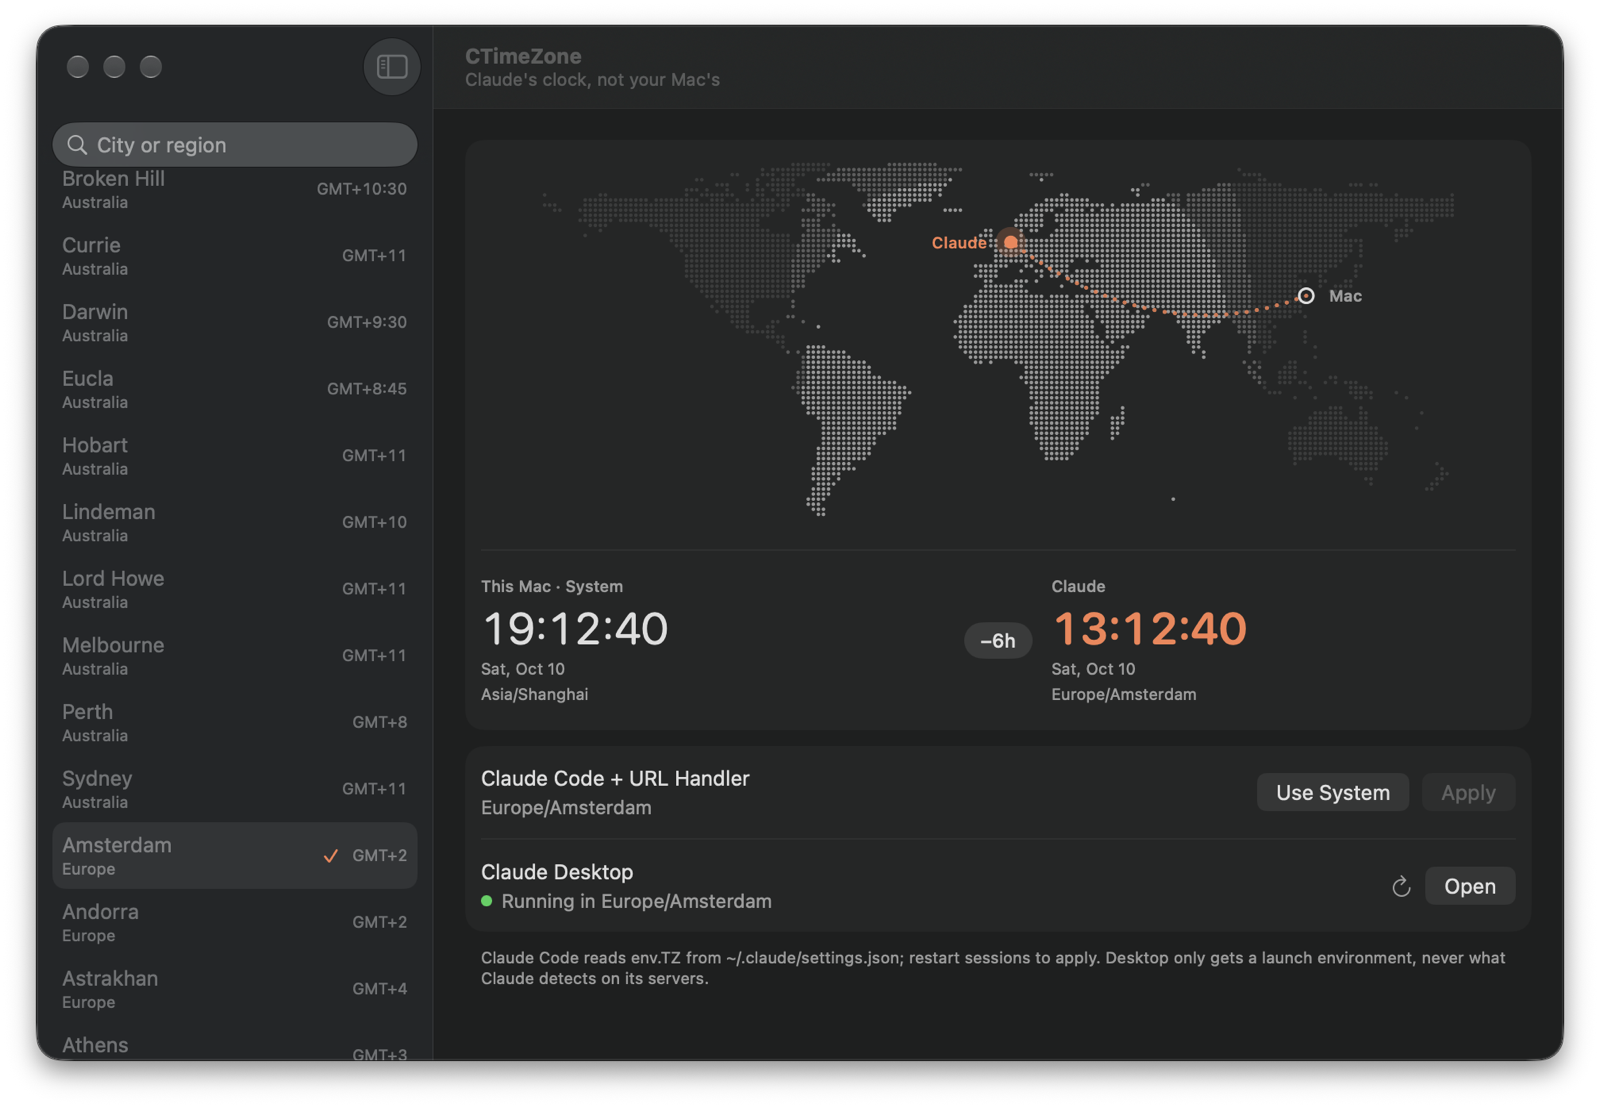
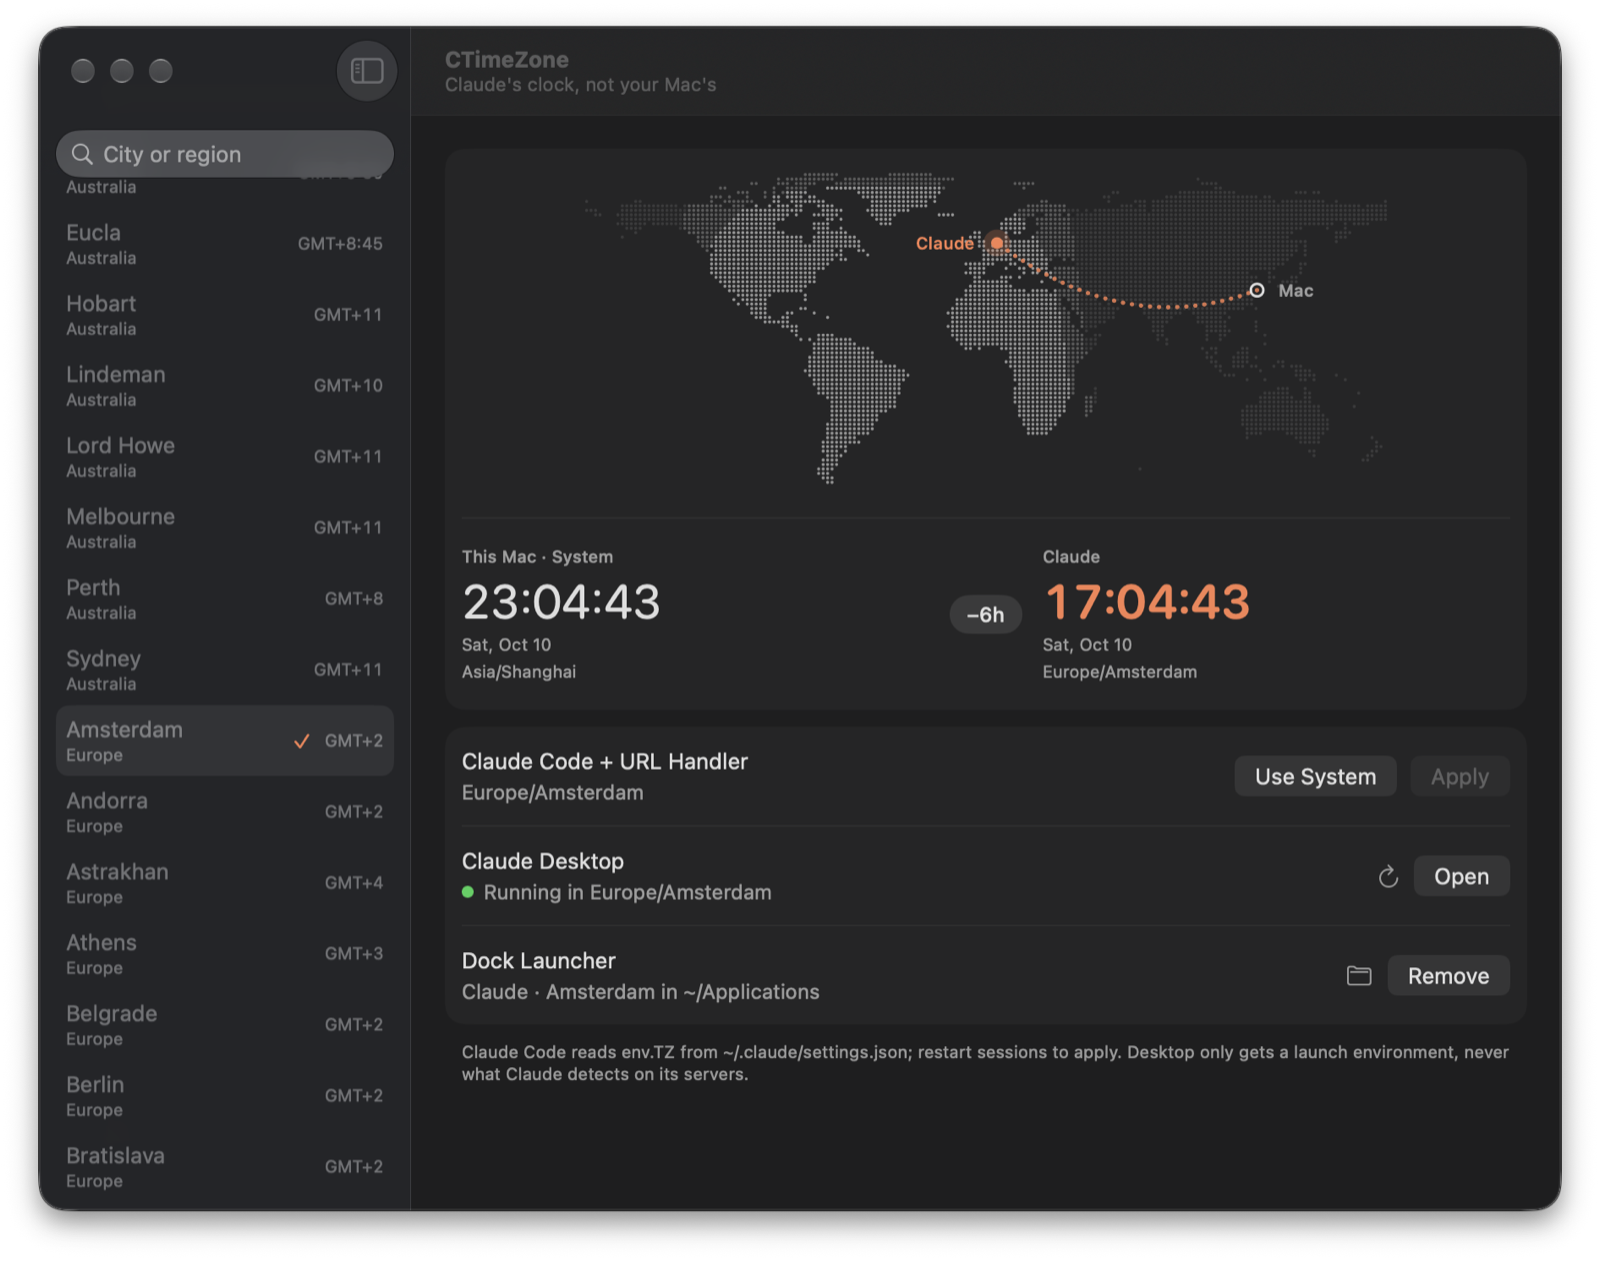
Trim the README and refresh the screenshot with the launcher row

diff --git a/README.md b/README.md
@@ -14,108 +14,69 @@
 </p>
 
 <p align="center">
-  <img src="docs/screenshot.png" width="800" alt="CTimeZone 主界面：左侧时区列表，右侧点阵世界地图标出 Mac 与 Claude 的位置，下方是两个时钟和 Claude Code、Claude Desktop 的设置">
+  <img src="docs/screenshot.png" width="800" alt="CTimeZone 主界面：左侧时区列表，右侧点阵世界地图标出 Mac 与 Claude 的位置，下方是两个时钟和 Claude Code、Claude Desktop、Dock 启动器三项设置">
 </p>
 
 > 非官方项目，与 Anthropic 无关。“Claude” 是 Anthropic 的商标，这里只用来说明本工具作用的对象。
 
 ## 安装
 
-1. 从 [Releases](https://github.com/Snowyyyyyy1/CTimeZone/releases) 下载最新的 `CTimeZone-<版本>.dmg`，把 App 拖进「应用程序」。
-2. 首次打开：本项目没有 Apple Developer ID，App 只做了 ad-hoc 签名，macOS 会拦下。去「系统设置 → 隐私与安全性」点「仍要打开」，或在终端执行：
+1. 从 [Releases](https://github.com/Snowyyyyyy1/CTimeZone/releases) 下载 `CTimeZone-<版本>.dmg`，把 App 拖进「应用程序」。
+2. App 没有 Apple Developer ID 签名，首次打开会被拦下。去「系统设置 → 隐私与安全性」点「仍要打开」，或执行：
 
    ```bash
    xattr -dr com.apple.quarantine /Applications/CTimeZone.app
    ```
 
-要求 macOS 14 或更高。
-
-## 自动更新
-
-App 内置 [Sparkle](https://sparkle-project.org)，每天在后台检查一次，下载好后在退出时安装；也可以从菜单 **CTimeZone → Check for Updates…** 手动检查。
-
-- 更新包靠 appcast 里的 EdDSA 签名验证，公钥写在 `Project.swift`，私钥只在维护者手里。没有 Developer ID 也能安全更新。
-- 只有装在 `/Applications` 或 `~/Applications` 的副本会自动更新；从构建目录或 DMG 里直接运行的副本不会。
-
-## 作用范围
-
-- **Claude Code + URL Handler**：写入 `~/.claude/settings.json` 的 `env.TZ`。两者共用同一份配置和同一个二进制，没法分开设置。
-- **Claude Desktop**：通过 `/usr/bin/open -a /Applications/Claude.app --env TZ=<时区>` 注入启动环境，和 CLI 配置互不影响。
-
-只改 `env.TZ`，保留 JSON 里的其他字段；根节点或 `env` 结构异常时直接报错，不会覆盖。
+要求 macOS 14 或更高。之后 App 会自动检查更新，也可以从菜单 **CTimeZone → Check for Updates…** 手动检查。
 
 ## 使用
 
-1. 在左侧列表搜索并选择时区（城市名或地区都行，例如 `new york`）。上方的地图和时钟会先预览。
-2. **Apply**：写入 `env.TZ`，同时把 Desktop 的启动时区设成同一个。**不会**重启 Claude Code，需要你自己重开会话。
-3. **Use System**：只删除 `env.TZ`（保留 `env` 里的其他键），Desktop 切回系统时区。
-4. **Open / Relaunch**：按目标时区启动 Claude Desktop。已有实例的时区不同时会先确认，再正常退出并重新启动；不用 `open -n`，也不强制退出。
-5. **Dock Launcher → Add to Dock…**：在 `~/Applications` 生成 `Claude · <城市>.app`，拖进 Dock 后日常直接点它打开 Claude，不用再开 CTimeZone。
+1. 在左侧搜索并选择时区（城市或地区，例如 `new york`）。
+2. **Apply**：Claude Code 和 Claude Desktop 都改用这个时区。
+3. **Use System**：两者都恢复系统时区。
+4. **Open / Relaunch**：按目标时区打开 Claude Desktop；如果它已经以别的时区在运行，会先确认再重启。
+
+工作原理：
+
+- **Claude Code**：写入 `~/.claude/settings.json` 的 `env.TZ`，其他字段不动。只对新开的会话生效。
+- **Claude Desktop**：启动时注入 `TZ` 环境变量。只有经 CTimeZone 或 Dock 启动器打开才生效，直接点官方图标打开仍是系统时区。
+
+每次修改 `settings.json` 前都会在同目录备份为 `settings.json.<UTC 时间>.bak`。
 
 ## Dock 启动器
 
-启动器没有窗口，点一下就按 CTimeZone 里当前的设置打开 Claude，然后自己退出：
+在 **Dock Launcher** 一行点 **Add to Dock…**，会在 `~/Applications` 生成 `Claude · <城市>.app`。把它拖进 Dock，以后直接点它打开 Claude：
 
 | Claude 的状态 | 启动器的行为 |
 |---|---|
-| 没在运行 | 带上 `TZ` 启动 |
-| 正在以目标时区运行 | 直接切到前台 |
-| 正在以别的时区运行 | 先问：**Relaunch**（正常退出后按目标时区重启）或 **Just Open**（直接切到前台） |
+| 没在运行 | 按目标时区启动 |
+| 正在以目标时区运行 | 切到前台 |
+| 正在以别的时区运行 | 询问 **Relaunch**（按目标时区重启）或 **Just Open**（直接切到前台） |
 
-- 每次点击时读取当前设置；在 CTimeZone 里换时区后，启动器会自动改名（例如 `Claude · Tokyo`），Dock 里的图标继续可用。
-- Spotlight 和 Raycast 能直接搜到它。
-- 图标是在你本机用 `/Applications/Claude.app` 的图标加一个小角标生成的，仓库里不包含 Claude 的图标。
-- 启动器随 CTimeZone 一起更新：CTimeZone 启动时发现模板变了，就替换 `~/Applications` 里的副本。
-- Claude 运行时 Dock 里会同时出现启动器和 Claude 本身两个图标，这是系统行为。建议把官方 Claude 图标移出 Dock，只留启动器。
-- 直接点官方 Claude 图标打开时仍然是系统时区，这一点不改 Claude.app 就做不到。
-
-## 行为说明
-
-- 改 `env.TZ` 只影响新启动的 Claude Code 会话，已在运行的进程不受影响。
-- Desktop 要经本工具启动才带上 `TZ`；直接从 Dock 或 Finder 打开的实例用的是系统时区。
-- Claude Code 自身更新不影响设置，因为配置写在 `settings.json` 里。
-- 只控制本地进程环境里的时区，**不代表** Claude 服务端检测到的时区。
-- 不修改、不重签名 `Claude.app`，也不动 CLI 的符号链接。
-
-## 写入、备份与回滚
-
-- 原子写入（临时文件 + `replaceItemAt`），文件和备份的权限尽量设为 `0600`。
-- 每次修改前，把原文件复制成同目录下的 `settings.json.<UTC 时间>.bak`。
-- 回滚：点 **Use System**；或手动删掉 `env.TZ`；或用 `.bak` 覆盖回去。Desktop 只是启动参数，正常重新打开即恢复。
+在 CTimeZone 里换时区后，启动器会自动改名，Dock 里的图标继续可用。Claude 运行时 Dock 里会同时出现启动器和 Claude 两个图标，建议把官方 Claude 图标移出 Dock。
 
 ## 构建
 
 依赖 [Tuist](https://tuist.dev)（版本见 `.mise.toml`）和 Xcode。
 
 ```bash
-./run-app.sh               # 生成工程、构建 Debug 并启动
+./run-app.sh               # 构建 Debug 并启动
 scripts/install-app.sh     # 构建 Release 并装到 ~/Applications
-
-TUIST_SKIP_UPDATE_CHECK=1 tuist generate --no-open
-xcodebuild test -workspace CTimezone.xcworkspace -scheme CTimezoneKit \
-  -destination 'platform=macOS' -derivedDataPath .build CODE_SIGNING_ALLOWED=NO
 ```
 
-## 发布（维护者）
+## 发布
 
-1. 在 [`CHANGELOG.md`](CHANGELOG.md) 写好这个版本的条目（`## X.Y.Z — 日期`）。它会原样成为 GitHub Release 的说明和应用内更新提示；没有条目，发布流程会停下。
-2. 推一个 `vX.Y.Z` 标签。`.github/workflows/release.yml` 会构建通用二进制、打 DMG、发 GitHub Release，再把签好名的 appcast 推到 `gh-pages`。
+1. 在 [`CHANGELOG.md`](CHANGELOG.md) 写好这个版本的条目，它会成为 Release 说明和应用内的更新提示。
+2. 推 `vX.Y.Z` 标签，GitHub Actions 会构建、发 Release 并更新 appcast。
 
-```bash
-git tag v0.2.0 && git push origin v0.2.0
-```
-
-一次性准备：
-
-- `scripts/export-sparkle-key.sh <owner/repo>`：把钥匙串里的 Sparkle 私钥写进仓库的 `SPARKLE_PRIVATE_ED_KEY` secret。私钥丢失意味着已安装的副本再也收不到更新。
-- 仓库 Settings → Pages 指向 `gh-pages` 分支。
+首次发布前，用 `scripts/export-sparkle-key.sh <owner/repo>` 把 Sparkle 私钥写进仓库 secret，并把 Pages 指向 `gh-pages` 分支。
 
 ## 致谢
 
 - [Sparkle](https://github.com/sparkle-project/Sparkle)（MIT）负责自动更新。
 - 世界地图的陆地数据来自 [Natural Earth](https://www.naturalearthdata.com)（公共领域）。
-- 时区坐标在运行时读取 macOS 自带的 `/usr/share/zoneinfo/zone.tab`。
 
 ## License
 
-[AGPL-3.0](LICENSE)。修改后分发或作为网络服务提供时，需要以同一许可证公开源码。
+[AGPL-3.0](LICENSE)
